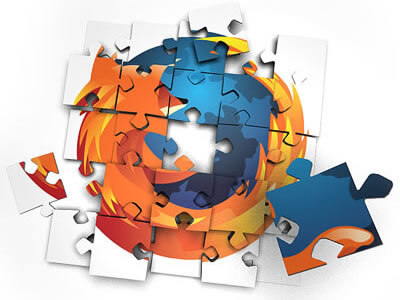
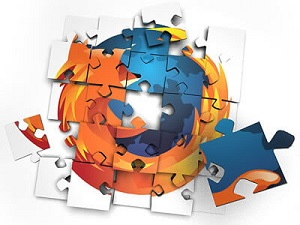
The jpg file "firefox-addons" has been resized from 400 width to 300

diff --git a/index.html b/index.html
@@ -139,10 +139,10 @@
         <a href="https://addons.mozilla.org/">
           <img srcset="images/firefox-addons-120w.jpg 120w,
                        images/firefox-addons-400w.jpg 400w,
-                       images/firefox-addons.jpg 400w"
+                       images/firefox-addons.jpg 300w"
                sizes="(max-width: 120px) 90px,
                       (max-width: 400px) 300px,
-                      400px"
+                      300px"
                src="images/firefox-addons.jpg" alt="Mozilla Firefox addons">
         </a>
         <a href="https://developer.mozilla.org/en-US/">
